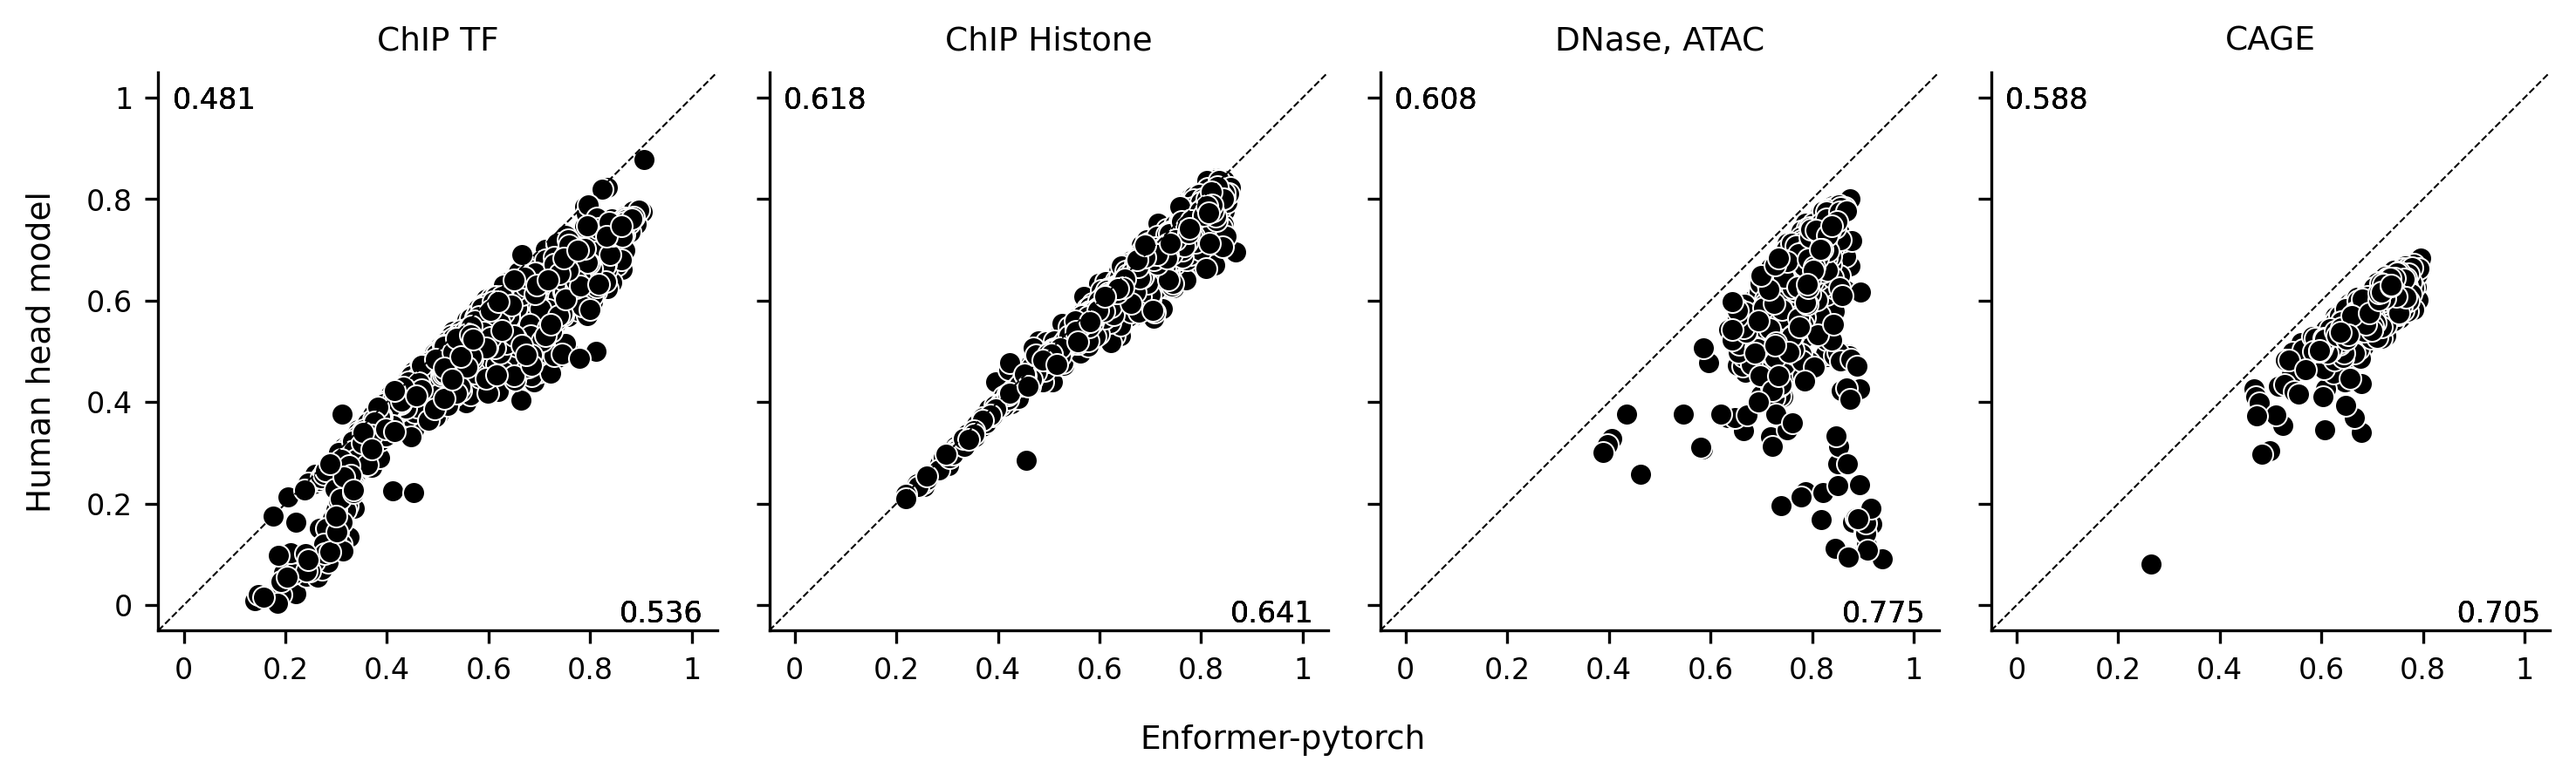
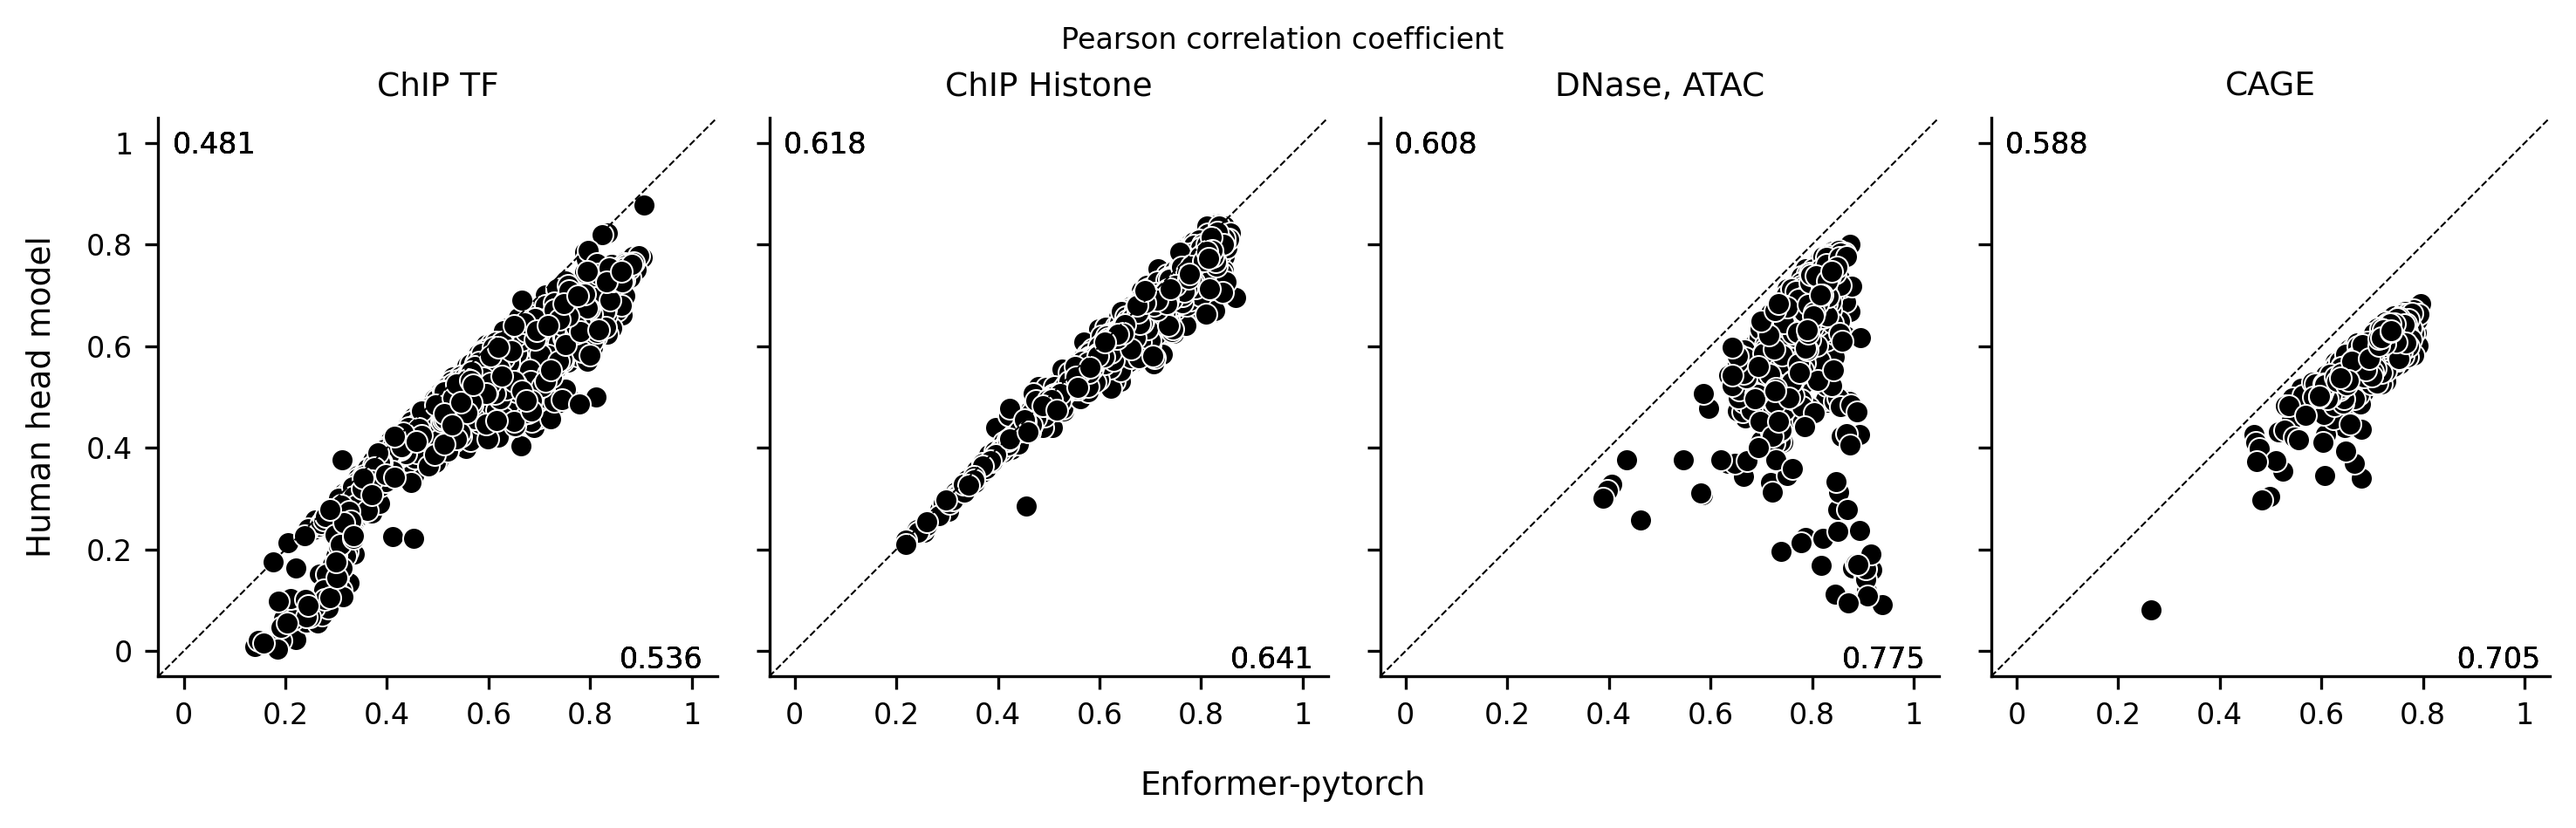
remake plots figure 1 and 2

diff --git a/enformer/correlation/plots_paper/correlation_newtracks.py b/enformer/correlation/plots_paper/correlation_newtracks.py
@@ -70,8 +70,8 @@ legend_map = {'Histone ChIP': 'Histone ChIP',
               'DNASE': 'DNase'}
 plt.axline((0.2, 0.2), (0.85, 0.85), linewidth=0.5, color='k', linestyle = 'dashed')
 ax = sns.scatterplot(data = df, s = 100, x = 'correlation test all tracks model', y = 'correlation test all tracks model', hue = df['assay type'].map(legend_map), palette = sns.color_palette("Paired", 3))
-plt.xlabel('Human head model trained on new tracks')
-plt.ylabel('Human head model trained on all tracks')
+plt.xlabel(f'Human head model trained on new tracks \n (Pearson correlation coefficient)')
+plt.ylabel(f'Human head model trained on all tracks \n (Pearson correlation coefficient)')
 plt.legend(title = None)
 ax.text(1, 0.03, '0.658', fontsize = 9, ha='right', va='center', transform=ax.transAxes)
 ax.set_xticks([0, 0.2, 0.4, 0.6, 0.8, 1]) 
@@ -87,8 +87,8 @@ print(fig_width, fig_height)
 plt.figure(figsize = (4.8, 4.8))
 plt.axline((0.17, 0.17), (0.8, 0.8), linewidth=0.5, color='k', linestyle = 'dashed')
 ax = sns.scatterplot(data = df, s = 100, x = 'correlation validation all tracks model', y = 'correlation validation all tracks model', hue = df['assay type'].map(legend_map), palette = sns.color_palette("Paired", 3))
-plt.xlabel('Human head model trained on new tracks')
-plt.ylabel('Human head model trained on all tracks')
+plt.xlabel(f'Human head model trained on new tracks \n (Pearson correlation coefficient)')
+plt.ylabel(f'Human head model trained on all tracks \n (Pearson correlation coefficient)')
 plt.title('Validation set')
 ax.text(1, 0.03, '0.628', fontsize = 9, ha='right', va='center', transform=ax.transAxes)
 ax.set_xticks([0, 0.2, 0.4, 0.6, 0.8, 1]) 
@@ -103,8 +103,8 @@ plt.close()
 plt.figure(figsize = (4.8, 4.8))
 plt.axline((0.17, 0.17), (0.8, 0.8), linewidth=0.5, color='k', linestyle = 'dashed')
 ax = sns.scatterplot(data = df, s = 100, x = 'correlation train all tracks model', y = 'correlation train all tracks model', hue = df['assay type'].map(legend_map), palette = sns.color_palette("Paired", 3))
-plt.xlabel('Human head model trained on new tracks')
-plt.ylabel('Human head model trained on all tracks')
+plt.xlabel(f'Human head model trained on new tracks \n (Pearson correlation coefficient)')
+plt.ylabel(f'Human head model trained on all tracks \n (Pearson correlation coefficient)')
 plt.title('Train set')
 plt.legend(title = None)
 ax.text(1, 0.03, '0.628', fontsize = 9, ha='right', va='center', transform=ax.transAxes)
@@ -117,7 +117,7 @@ plt.savefig('/exports/humgen/idenhond/projects/enformer/correlation/plots_paper/
 plt.close()
 
 
-exit()
+
 """
 Compare performance of 5313  tracks to dnn head model
 """
@@ -236,7 +236,7 @@ for i, (key, value) in enumerate(df['assay type split ChIP'].value_counts().to_d
     ax[3].text(0.9, 0.03, '0.682', fontsize = 5, ha='center', va='center', transform=ax[3].transAxes)
 plt.figtext(.5, .25, f'Human head model trained on all tracks', fontsize = 6, ha='center')
 fig.supylabel(f'      Human head model \ntrained on Enformer tracks', fontsize = 6)
-plt.figtext(.5, .75, f'Train set', fontsize = 8, ha='center')
+plt.figtext(.5, .75, f'Train set (Pearson correlation coefficient)', fontsize = 6, ha='center')
 fig.tight_layout()
 plt.savefig(f'/exports/humgen/idenhond/projects/enformer/correlation/plots_paper/Plots_paper/Fig2_newtracks/Scatter_corr_train_alltracks.png', bbox_inches='tight', dpi = 300)
 
@@ -271,7 +271,7 @@ for i, (key, value) in enumerate(df['assay type split ChIP'].value_counts().to_d
     ax[3].text(0.9, 0.03, '0.588', fontsize = 5, ha='center', va='center', transform=ax[3].transAxes)
 plt.figtext(.5, .25, f'Human head model trained on all tracks', fontsize = 6, ha='center')
 fig.supylabel(f'      Human head model \ntrained on Enformer tracks', fontsize = 6)
-plt.figtext(.5, .75, f'Validation set', fontsize = 8, ha='center')
+plt.figtext(.5, .75, f'Validation set (Pearson correlation coefficient)', fontsize = 6, ha='center')
 fig.tight_layout()
 plt.savefig(f'/exports/humgen/idenhond/projects/enformer/correlation/plots_paper/Plots_paper/Fig2_newtracks/Scatter_corr_validation_alltracks.png', bbox_inches='tight', dpi = 300)
 
@@ -306,6 +306,6 @@ for i, (key, value) in enumerate(df['assay type split ChIP'].value_counts().to_d
     ax[3].text(0.9, 0.03, '0.575', fontsize = 5, ha='center', va='center', transform=ax[3].transAxes)
 plt.figtext(.5, .25, f'Human head model trained on all tracks', fontsize = 6, ha='center')
 fig.supylabel(f'      Human head model \ntrained on Enformer tracks', fontsize = 6)
-plt.figtext(.5, .75, f'Test set', fontsize = 8, ha='center')
+plt.figtext(.5, .75, f'Test set (Pearson correlation coefficient)', fontsize = 6, ha='center')
 fig.tight_layout()
 plt.savefig(f'/exports/humgen/idenhond/projects/enformer/correlation/plots_paper/Plots_paper/Fig2_newtracks/Scatter_corr_test_alltracks.png', bbox_inches='tight', dpi = 300)

diff --git a/enformer/correlation/plots_paper/correlation_dnnhead.py b/enformer/correlation/plots_paper/correlation_dnnhead.py
@@ -107,6 +107,7 @@ for i, (key, value) in enumerate(df['assay type split ChIP'].value_counts().to_d
     ax[3].text(0.1, 0.95, '0.574', fontsize = 8, ha='center', va='center', transform=ax[3].transAxes)
     ax[3].text(0.9, 0.03, '0.688', fontsize = 8, ha='center', va='center', transform=ax[3].transAxes)
 plt.figtext(.5, .1, 'Enformer-pytorch', fontsize=9, ha='center')
+plt.figtext(.5, 0.85, 'Pearson correlation coefficient', fontsize=8, ha='center')
 fig.supylabel('Human head model', fontsize = 9)
 fig.tight_layout()
 plt.savefig(f'/exports/humgen/idenhond/projects/enformer/correlation/plots_paper/Plots_paper/Fig1_correlation_dnnhead/dnn_head_vs_enformer_perassaytype.png', bbox_inches='tight', dpi = 300)
@@ -142,6 +143,7 @@ for i, (key, value) in enumerate(df['assay type split ChIP'].value_counts().to_d
     ax[3].text(0.1, 0.95, '0.682', fontsize = 8, ha='center', va='center', transform=ax[3].transAxes)
     ax[3].text(0.9, 0.03, '0.928', fontsize = 8, ha='center', va='center', transform=ax[3].transAxes)
 plt.figtext(.5, .1, 'Enformer-pytorch', fontsize=9, ha='center')
+plt.figtext(.5, 0.85, 'Pearson correlation coefficient', fontsize=8, ha='center')
 fig.supylabel('Human head model', fontsize = 9)
 fig.tight_layout()
 plt.savefig(f'/exports/humgen/idenhond/projects/enformer/correlation/plots_paper/Plots_paper/Fig1_correlation_dnnhead/dnn_head_vs_enformer_perassaytype_train.png', bbox_inches='tight', dpi = 300)
@@ -183,6 +185,7 @@ for i, (key, value) in enumerate(df['assay type split ChIP'].value_counts().to_d
     ax[3].text(0.9, 0.03, ' 0.705', fontsize = 8, ha='center', va='center', transform=ax[3].transAxes)
 
 plt.figtext(.5, .1, 'Enformer-pytorch', fontsize=9, ha='center')
+plt.figtext(.5, 0.85, 'Pearson correlation coefficient', fontsize=8, ha='center')
 # fig.supxlabel('Enformer-pytorch')
 fig.supylabel('Human head model', fontsize = 9)
 
